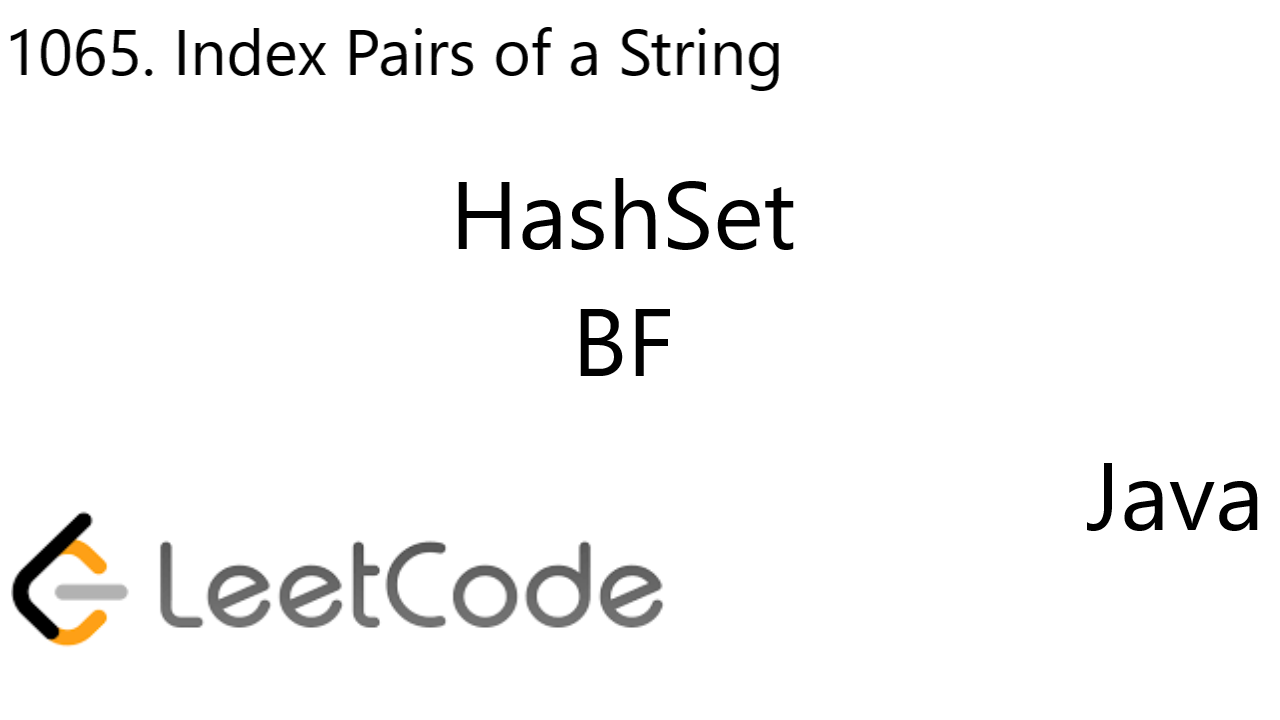
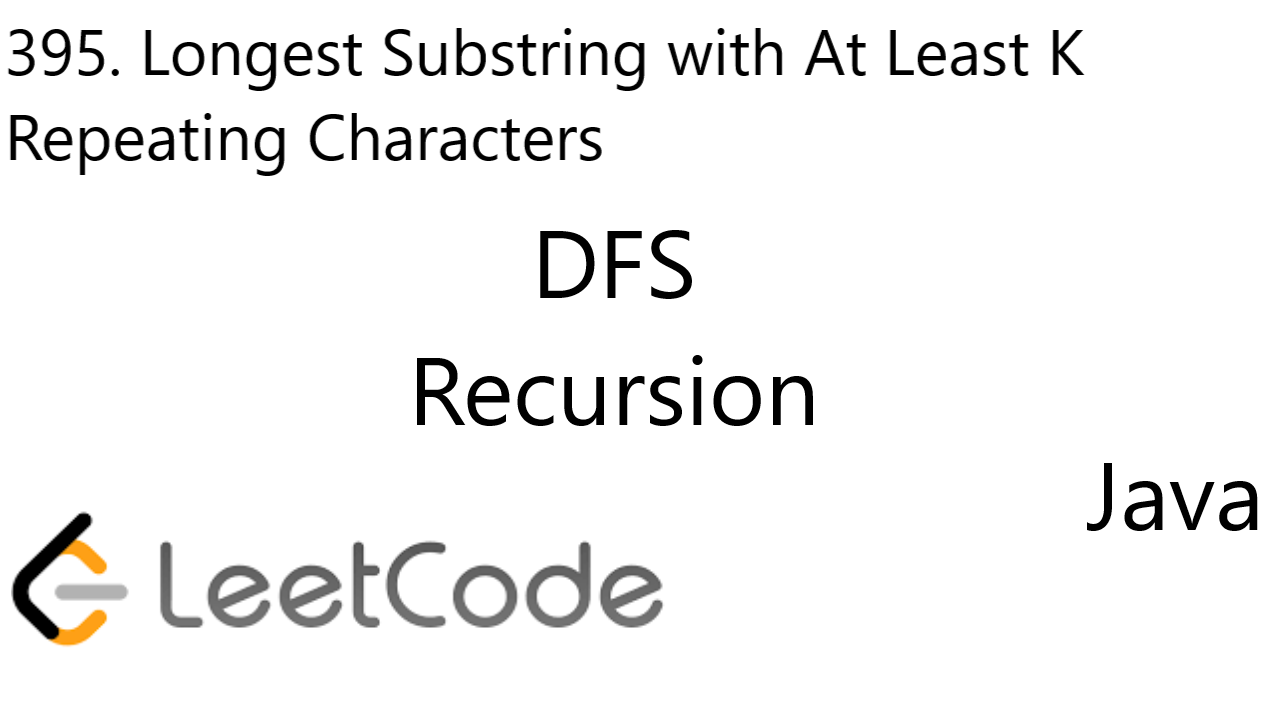
.

Changed region(s): [[0.0, 0.1528, 0.6562, 0.6111], [0.0, 0.0306, 0.8438, 0.1222]]

diff --git a/LeetCode/00076. Minimum Window Substring/README.MD b/LeetCode/00076. Minimum Window Substring/README.MD
@@ -8,41 +8,43 @@
 ```
 class Solution {
     public String minWindow(String s, String t) {
-        HashMap<Character, Integer> map = new HashMap();
+        Map<Character, Integer> map = new HashMap();
         for(char c: t.toCharArray()){
             map.put(c, map.getOrDefault(c, 0) + 1);
         }
-        int left = 0, right = 0;
-        int ansFrom = 0, ansEnd = Integer.MAX_VALUE;
-        int tSize = map.size();
-        while(right < s.length()){
-            while(right < s.length() && tSize > 0){
-                char cur = s.charAt(right);
-                if(map.containsKey(cur)){
-                    map.put(cur, map.get(cur) - 1);
-                    if(map.get(cur) == 0){
+        int i = 0,
+            j = 0,
+            tSize = map.size(),
+            ansStart = 0,
+            ansEnd = Integer.MAX_VALUE;
+        while(j < s.length()){
+            while(j < s.length() && tSize > 0){
+                char c = s.charAt(j++);
+                if(map.containsKey(c)){
+                    map.put(c, map.get(c) - 1);
+                    if(map.get(c) == 0){
                         tSize--;
                     }
                 }
-                right++;
             }
-            
-            while(left < s.length() && tSize == 0){
-                if(ansEnd - ansFrom > right - left){
-                    ansEnd = right;
-                    ansFrom = left;
+            while(tSize == 0 && i < s.length()){
+                if(ansEnd - ansStart > j - i){
+                    ansEnd = j;
+                    ansStart = i;
                 }
-                char cur = s.charAt(left);
-                if(map.containsKey(cur)){
-                    map.put(cur, map.get(cur) + 1);
-                    if(map.get(cur) == 1){
+                char c = s.charAt(i++);
+                if(map.containsKey(c)){
+                    map.put(c, map.get(c) + 1);
+                    if(map.get(c) == 1){
                         tSize++;
                     }
                 }
-                left++;
             }
         }
-        return (ansEnd == Integer.MAX_VALUE)?"":s.substring(ansFrom, ansEnd);
+        if(ansEnd == Integer.MAX_VALUE){
+            return "";
+        }
+        return s.substring(ansStart, ansEnd);
     }
 }
 ```

diff --git a/LeetCode/00395. Longest Substring with At Least K Repeating Characters/README.MD b/LeetCode/00395. Longest Substring with At Least K Repeating Characters/README.MD
@@ -1,0 +1,47 @@
+# DFS
+* Time Complexity: O(N<sup>2</sup>)
+* Space Complexity: O(1)
+	* N as length of s
+```
+class Solution {
+    public int longestSubstring(String s, int k) {
+        if(s == null || s.length() == 0){
+            return 0;
+        }
+        if(k < 2){
+            return s.length();
+        }
+        return dfs(s, 0, s.length(), k);
+    }
+
+    public int dfs(String s, int l, int r, int k){
+        if(l >= r){
+            return 0;
+        }
+        int[] cnt = new int[26];
+        for(int i = l; i < r; i++){
+            cnt[s.charAt(i) - 'a']++;
+        }
+        boolean flag = true;
+        for(int i = 0; i < 26; i++){
+            if(cnt[i] > 0 && cnt[i] < k){
+                flag = false;
+            }
+        }
+        if(flag){
+            return r - l;
+        }
+
+        int res = 0,
+            start = 0;
+        for(int i = l; i < r; i++){
+            if(cnt[s.charAt(i)-'a'] < k){
+                res = Math.max(res, dfs(s, start, i, k));
+                start = i + 1;
+            }
+        }
+        res = Math.max(res, dfs(s, start, r, k));
+        return res;
+    }
+}
+```

diff --git a/LeetCode/00394. Decode String/README.MD b/LeetCode/00394. Decode String/README.MD
@@ -8,19 +8,19 @@ class Solution {
         Stack<Integer> intStack = new Stack();
         Stack<StringBuilder> strStack = new Stack();
         StringBuilder sb = new StringBuilder();
-        int k = 0;
+        int num = 0;
         for(char c: s.toCharArray()){
             if(Character.isDigit(c)){
-                k = k*10 + c - '0';
+                num = num*10 + c - '0';
             }else if(c == '['){
-                intStack.push(k);
+                intStack.push(num);
                 strStack.push(sb);
-                k = 0;
+                num = 0;
                 sb = new StringBuilder();
             }else if(c == ']'){
                 StringBuilder temp = sb;
                 sb = strStack.pop();
-                for(k = intStack.pop(); k > 0; k--){
+                for(int i = intStack.pop(); i > 0; i--){
                     sb.append(temp);
                 }
             }else{

diff --git a/LeetCode/00003. Longest Substring Without Repeating Characters/README.MD b/LeetCode/00003. Longest Substring Without Repeating Characters/README.MD
@@ -1,6 +1,7 @@
 # Sliding Windows
 * Time Complexity: O(N)
 * Space Complexity: O(N)
+	* N as length of s
 ```
 class Solution {
     public int lengthOfLongestSubstring(String s) {
@@ -19,6 +20,27 @@ class Solution {
                 set.remove(s.charAt(i));
                 i++;
             }
+        }
+        return res;
+    }
+}
+```
+# Cleaner Sliding Windows
+* Time Complexity: O(N)
+* Space Complexity: O(N)
+	* N as length of s
+```
+class Solution {
+    public int lengthOfLongestSubstring(String s) {
+        Set<Character> set = new HashSet();
+        int i = 0,
+            res = 0;
+        for(int j = 0; j < s.length(); j++){
+            char c = s.charAt(j);
+            while(!set.add(c)){
+                set.remove(s.charAt(i++));
+            }
+            res = Math.max(res, j-i+1);
         }
         return res;
     }

diff --git a/LeetCode/00412. Fizz Buzz/README.MD b/LeetCode/00412. Fizz Buzz/README.MD
@@ -1,0 +1,29 @@
+# String
+* Time Complexity: O(N)
+* Space Complexity: O(N)
+	* N as length of n
+```
+class Solution {
+    private static final String FIZZ = "Fizz";
+    private static final String BUZZ = "Buzz";
+    public List<String> fizzBuzz(int n) {
+        List<String> res = new ArrayList();
+        int i = 1;
+        StringBuilder sb = new StringBuilder();
+        sb.append(FIZZ).append(BUZZ);
+        while(i <= n){
+            if(i % 3 == 0 && i % 5 == 0){
+                res.add(sb.toString());
+            }else if(i % 3 == 0){
+                res.add(FIZZ);
+            }else if(i % 5 == 0){
+                res.add(BUZZ);
+            }else{
+                res.add(String.valueOf(i));
+            }
+            i++;
+        }
+        return res;
+    }
+}
+```

diff --git a/LeetCode/01118. Number of Days in a Month/README.MD b/LeetCode/01118. Number of Days in a Month/README.MD
@@ -1,0 +1,20 @@
+# Math
+* Time Complexity: O(1)
+* Space Complexity: O(1)
+```
+class Solution {
+    private static final int[] months = {0, 31, 0, 31, 30, 31, 30, 31, 31, 30, 31, 30, 31};
+    public int numberOfDays(int year, int month) {
+        if(month != 2){
+            return months[month];
+        }
+        return isLeap(year)? 29: 28;
+    }
+    private boolean isLeap(int year){
+        if(year % 100 == 0){
+            return year % 400 == 0;
+        }
+        return year % 4 == 0;
+    }
+}
+```

diff --git a/LeetCode/01137. N-th Tribonacci Number/README.MD b/LeetCode/01137. N-th Tribonacci Number/README.MD
@@ -1,0 +1,24 @@
+# Math
+* Time Complexity: O(N)
+* Space Complexity: O(N)
+	* N as length of n
+```
+class Solution {
+    public int tribonacci(int n) {
+        if(n < 3){
+            return n == 0? 0: 1;
+        }
+        int a = 0,
+            b = 1,
+            c = 1,
+            res = 0;
+        for(int i = 3; i <= n; i++){
+            res = a + b + c;
+            a = b;
+            b = c;
+            c = res;            
+        }
+        return res;
+    }
+}
+```

diff --git a/LeetCode/01211. Queries Quality and Percentage/README.MD b/LeetCode/01211. Queries Quality and Percentage/README.MD
@@ -1,0 +1,8 @@
+```
+select 
+    query_name, 
+    round(avg(rating/position), 2) as 'quality',
+    round(avg(rating < 3) * 100, 2) as 'poor_query_percentage'
+from Queries
+group by query_name
+```
